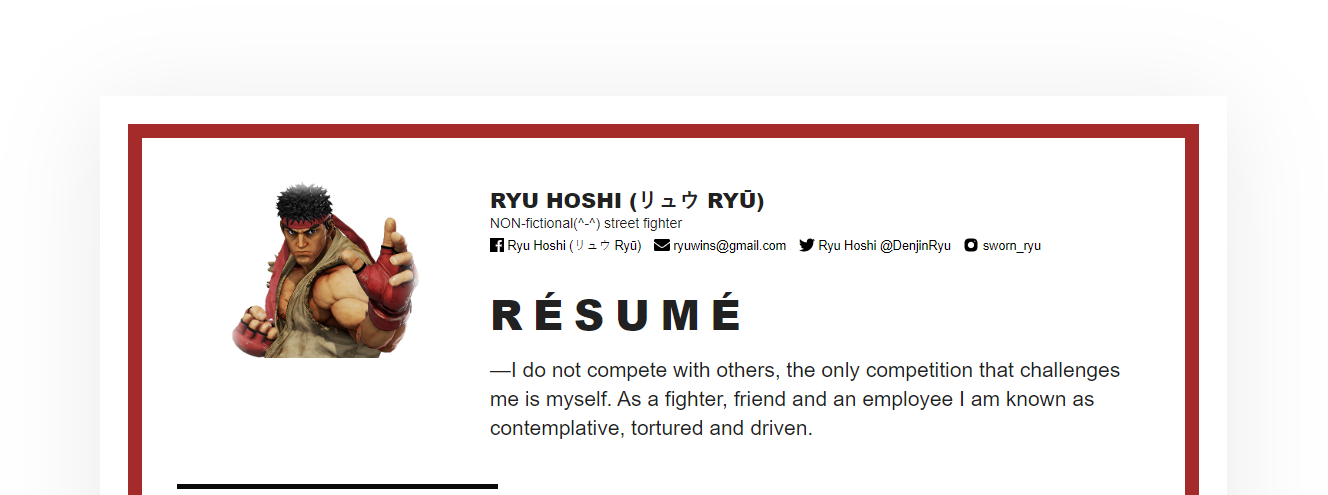
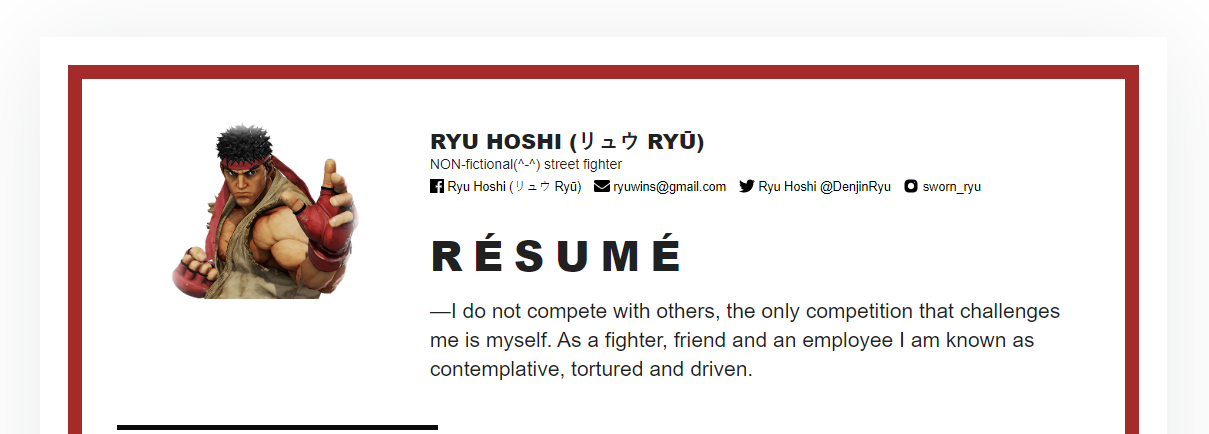
Update preview image, fix manifest.json placement

Changed region(s): [[0.0306, 0.1498, 0.9487, 1.0]]

diff --git a/index.html b/index.html
@@ -39,7 +39,7 @@
     <link rel="icon" type="image/x-icon" href="images/favicon.ico">
     <link rel="icon" type="image/png" sizes="192x192" href="images/favicon-192x192.png">
     <link rel="icon" type="image/png" sizes="512x512" href="images/favicon-512x512.png">
-    <link rel="manifest" href="./vendor/manifest.json">
+    <link rel="manifest" href="manifest.json">
     <link rel="me" href="https://www.facebook.com/profile.php?id=100004808958030" type="text/html">
     <link rel="me" href="mailto:ryuwins@gmail.com">
     <link rel="me" href="https://twitter.com/denjinryu" type="text/html">
